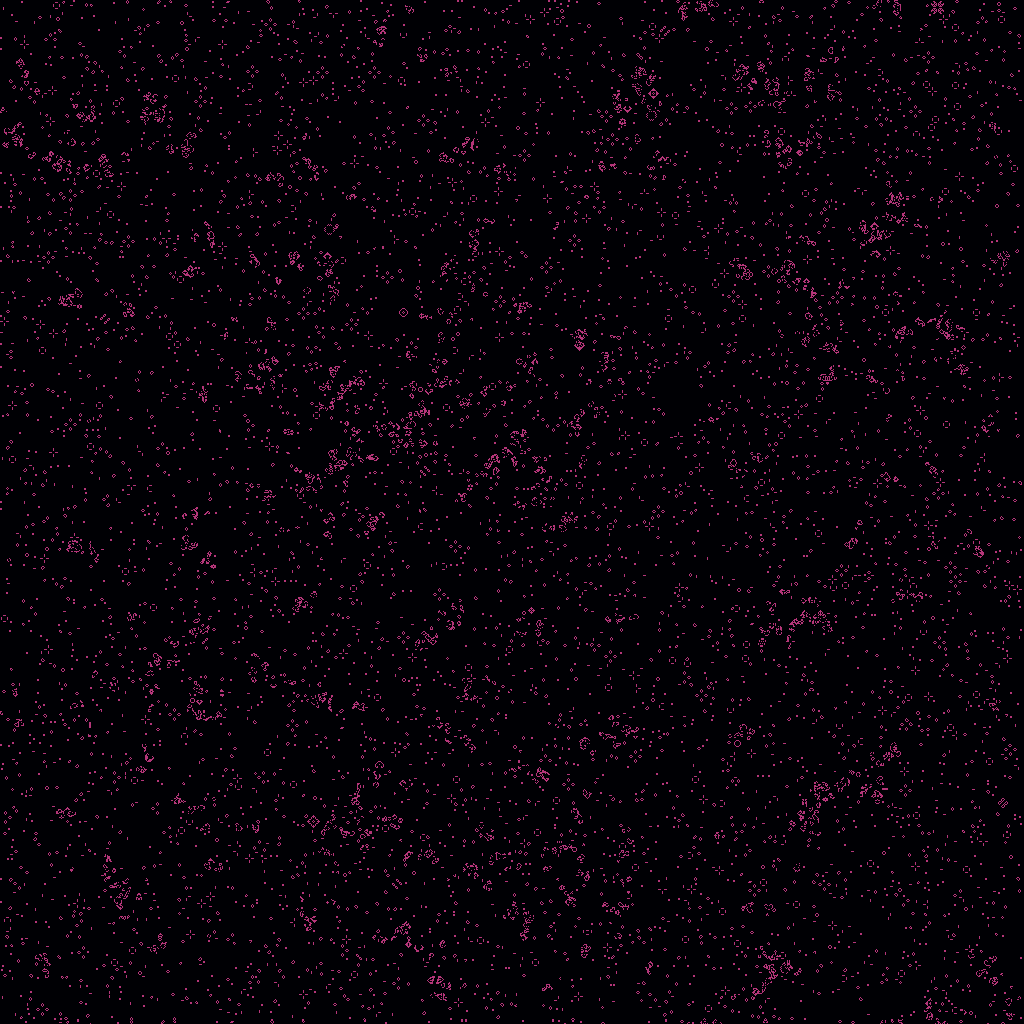
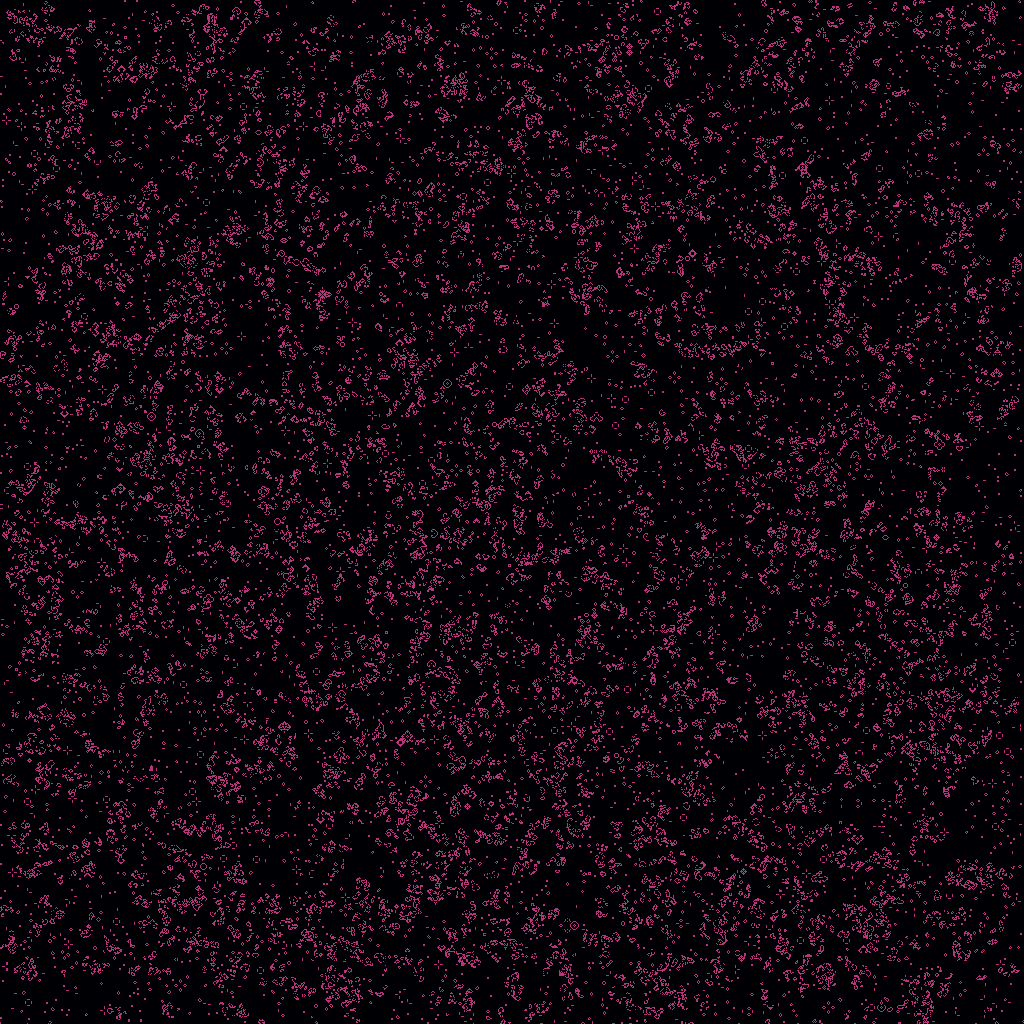
refactor: Update constants and loop iterations in main.rs and convolution.wgsl
- Remove commented out code and unused variables
- Update the way observation neighbors are collected
- Update the neighbors buffer creation

diff --git a/src/dynamics/implementations/life.rs b/src/dynamics/implementations/life.rs
@@ -100,29 +100,9 @@ where
             height: image.height - crop,
         };
 
-        // let n: Vec<i32> = self
-        //     .observation_neighbors()
-        //     .into_iter()
-        //     .flatten()
-        //     .collect::<Vec<i32>>();
+        let observation = <_ as LatticeComputable<N, E>>::observation_neighbors(self);
 
-        // let n: Vec<Vec<i32>> = self.observation_neighbors();
-
-        // let a = n.iter().flatten().copied().collect::<Vec<i32>>();
-
-        let a = [
-            [-1, -1],
-            [-1, 0],
-            [-1, 1],
-            [0, -1],
-            [0, 1],
-            [1, -1],
-            [1, 0],
-            [1, 1],
-        ];
-
-        // let b_list = [3u32];
-        // let s_list = [2u32, 3u32];
+        let neighbors = observation.iter().flatten().copied().collect::<Vec<i32>>();
 
         let b_num = self
             .dynamic()
@@ -144,7 +124,8 @@ where
         let input_buffer = device.create_data_buffer("input", bytemuck::cast_slice(&image.data));
         let result_buffer = device.create_buffer("result", output_size);
         // let neighbors_buffer = device.create_data_buffer("neighbors", bytemuck::cast_slice(&n));
-        let neighbors_buffer = device.create_data_buffer("neighbors", bytemuck::cast_slice(&a[..]));
+        let neighbors_buffer =
+            device.create_data_buffer("neighbors", bytemuck::cast_slice(&neighbors[..]));
         let output_buffer = device.create_output_buffer("output", output_size);
 
         // let rule_data = vec![b_num, s_num];

diff --git a/src/main.rs b/src/main.rs
@@ -23,7 +23,7 @@ async fn main() {
 
     let space = HyperGraphHeap::new_grid(&DiscreteState::filled_vector(W * H, STATES), W, H, ());
 
-    let dynamic = LifeLike::new(&[3], &[2, 3]);
+    let dynamic = LifeLike::new(&[3], &[2, 3, 7, 8]); // highlife+
 
     let mut system = DynamicalSystem::new(Box::new(space), Box::new(dynamic));
 
